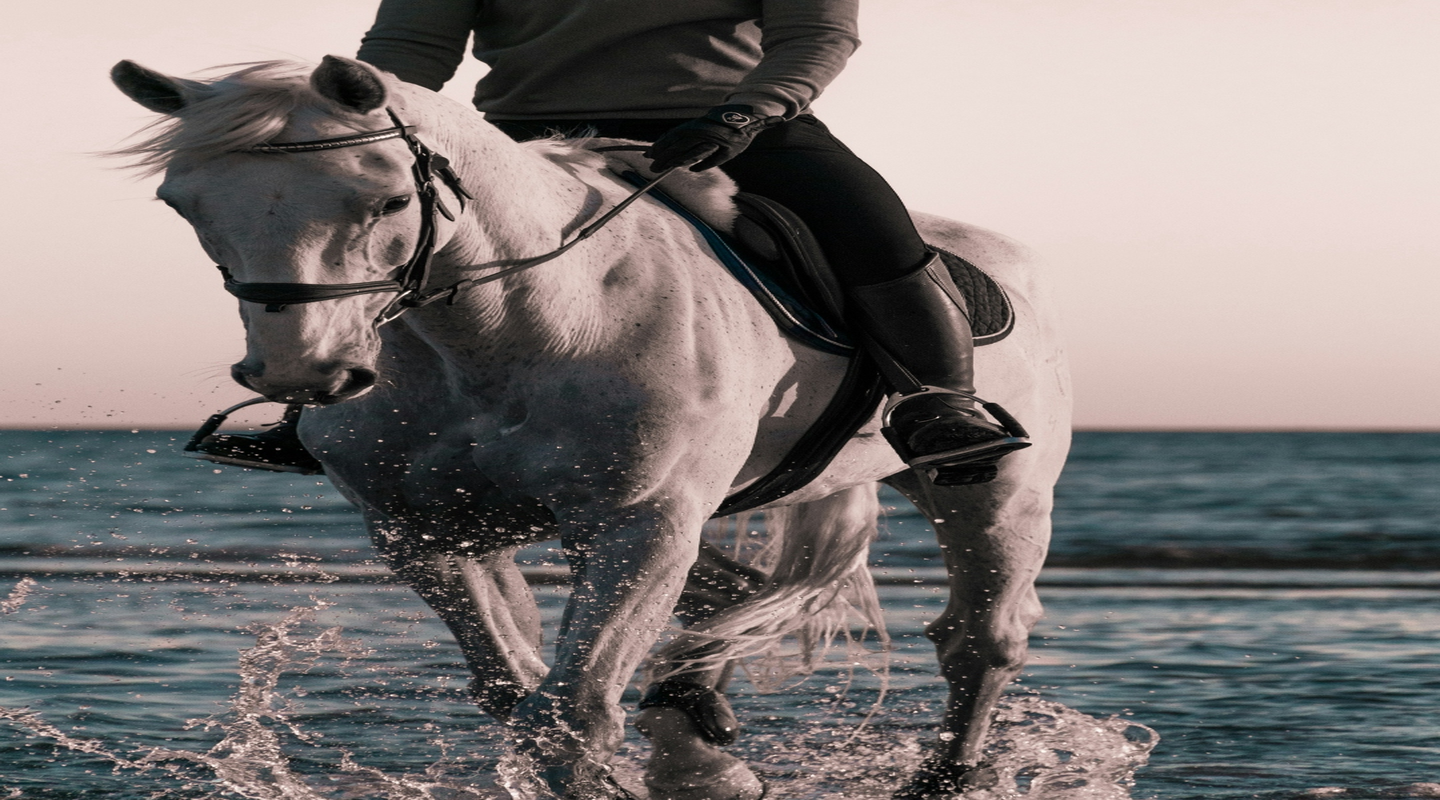
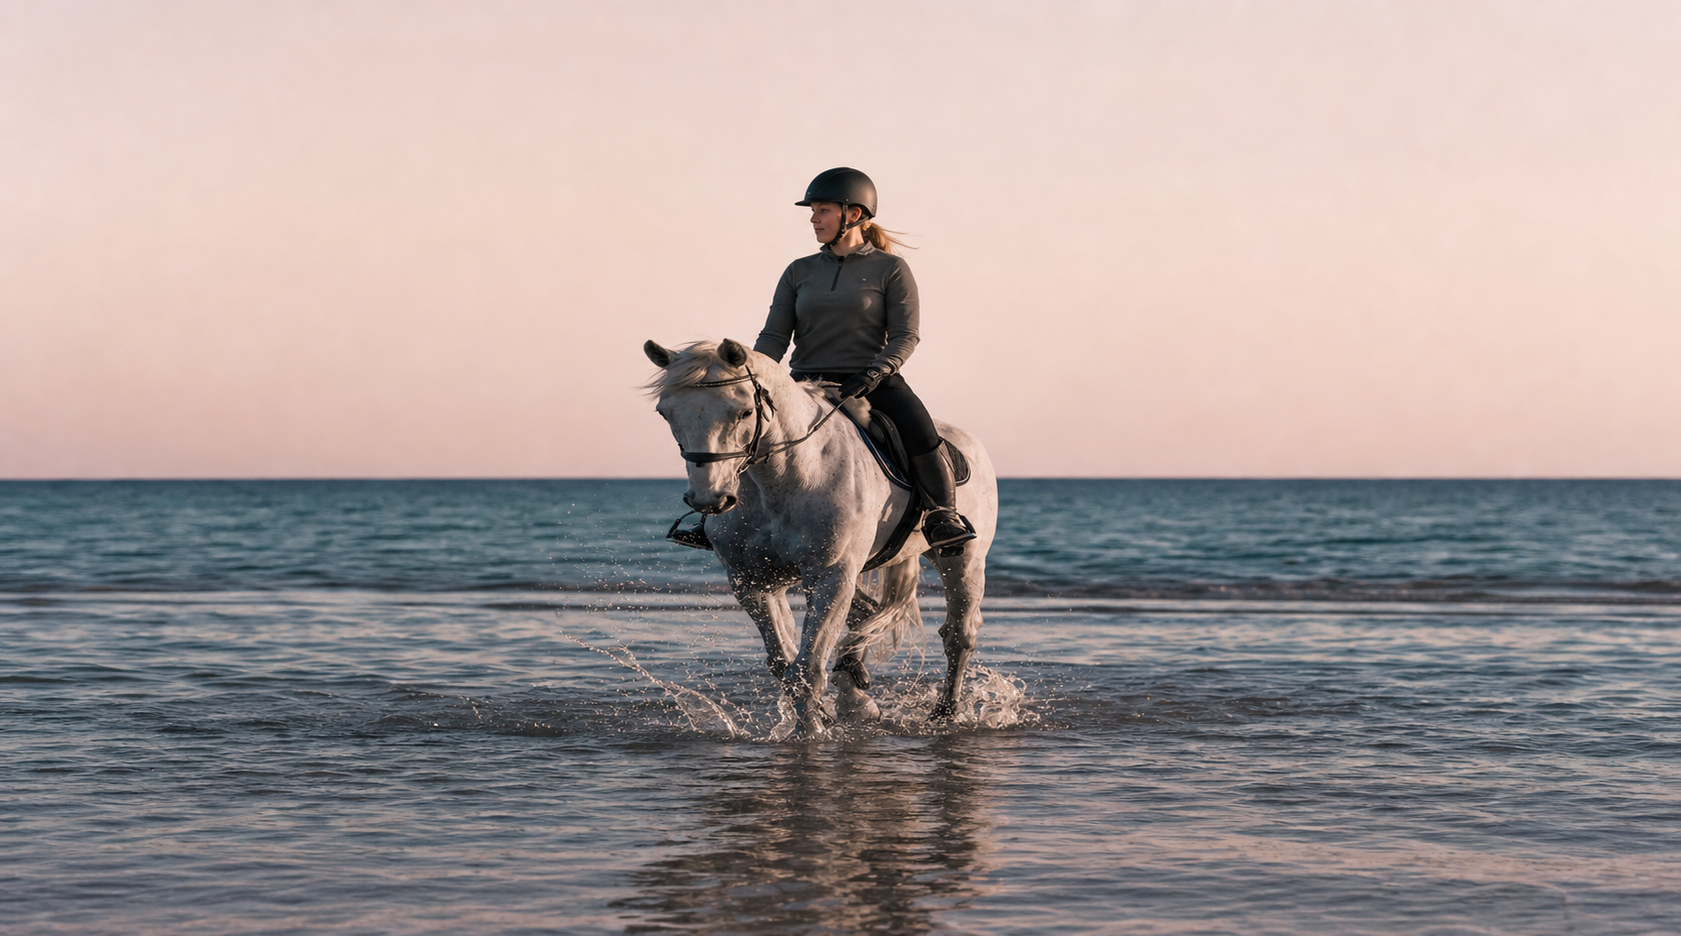
horses-riding : hero landing en photo entiere (ratio naturel, dezoom max) via option heroFullPhoto sur ThemeLandingPage ; nouvelle photo hero elargie (mer/ciel etendus).

diff --git a/src/app/components/ThemeLandingPage.jsx b/src/app/components/ThemeLandingPage.jsx
@@ -6,7 +6,23 @@ import { destinations } from '../charters/destinationsData';
 // Hero + intro + grille des 16 destinations en cards VERTICALES (portrait 3/4 +
 // titre dessous, style /only-for-you). Une card est cliquable si Caraïbes
 // (caribbeanHref) ou si son titre est dans `links`. `cardImages` surcharge la photo.
-export default function ThemeLandingPage({ eyebrow, title, heroImage, intro, caribbeanHref, links = {}, cardImages = {} }) {
+export default function ThemeLandingPage({ eyebrow, title, heroImage, intro, caribbeanHref, links = {}, cardImages = {}, heroFullPhoto = false }) {
+  const heroGradient = (
+    <div className="absolute inset-x-0 bottom-0 h-1/2 bg-gradient-to-t from-[#26272a] via-[#26272a]/45 to-[#26272a]/10" />
+  );
+  const heroOverlay = (
+    <div className="absolute inset-0 flex flex-col items-center justify-end text-center px-6 pb-4 md:pb-6">
+      <div className="hero-rise flex flex-col items-center">
+        <p className="text-[10px] md:text-xs uppercase tracking-[0.35em] text-[#B87333] mb-3">{eyebrow}</p>
+        <h1 className="trajan-regular text-3xl md:text-5xl lg:text-6xl uppercase tracking-[0.1em] text-[#C0C0C0] leading-tight drop-shadow-[0_2px_10px_rgba(0,0,0,0.75)]">
+          {title}
+        </h1>
+        <div className="relative w-28 md:w-40 h-5 mt-4">
+          <Image src="/images/title-line.png" alt="" fill className="object-contain" />
+        </div>
+      </div>
+    </div>
+  );
   return (
     <div className="bg-[#26272a] text-[#acb0cd]">
       <style>{`
@@ -15,21 +31,23 @@ export default function ThemeLandingPage({ eyebrow, title, heroImage, intro, car
       `}</style>
 
       {/* ══ HERO ══ */}
-      <section className="relative pt-[70px] md:pt-0 h-[58vh] md:h-[78vh]">
-        <Image src={heroImage} alt={title} fill priority sizes="100vw" className="object-cover" />
-        <div className="absolute inset-x-0 bottom-0 h-1/2 bg-gradient-to-t from-[#26272a] via-[#26272a]/45 to-[#26272a]/10" />
-        <div className="absolute inset-0 flex flex-col items-center justify-end text-center px-6 pb-4 md:pb-6">
-          <div className="hero-rise flex flex-col items-center">
-            <p className="text-[10px] md:text-xs uppercase tracking-[0.35em] text-[#B87333] mb-3">{eyebrow}</p>
-            <h1 className="trajan-regular text-3xl md:text-5xl lg:text-6xl uppercase tracking-[0.1em] text-[#C0C0C0] leading-tight drop-shadow-[0_2px_10px_rgba(0,0,0,0.75)]">
-              {title}
-            </h1>
-            <div className="relative w-28 md:w-40 h-5 mt-4">
-              <Image src="/images/title-line.png" alt="" fill className="object-contain" />
-            </div>
+      {heroFullPhoto ? (
+        // Dezoom max : photo entiere (ratio naturel), aucun crop
+        <section className="relative pt-[70px]">
+          <div className="relative">
+            {/* eslint-disable-next-line @next/next/no-img-element */}
+            <img src={encodeURI(heroImage)} alt={title} className="block w-full h-auto" />
+            {heroGradient}
+            {heroOverlay}
           </div>
-        </div>
-      </section>
+        </section>
+      ) : (
+        <section className="relative pt-[70px] md:pt-0 h-[58vh] md:h-[78vh]">
+          <Image src={heroImage} alt={title} fill priority sizes="100vw" className="object-cover" />
+          {heroGradient}
+          {heroOverlay}
+        </section>
+      )}
 
       {/* ══ INTRO ══ */}
       {intro && (

diff --git a/src/app/horses-riding/page.js b/src/app/horses-riding/page.js
@@ -31,6 +31,7 @@ export default function HorsesRidingPage() {
       eyebrow="Private Client Guide"
       title="Horses & Riding"
       heroImage="/images/horse/resized_1440x800.png"
+      heroFullPhoto
       intro="Beach rides, mountain trails, and the great racing traditions of each destination — equestrian experiences shaped around superyacht itineraries for a discerning private clientele."
       caribbeanHref="/horses-riding/caribbean"
       links={{
